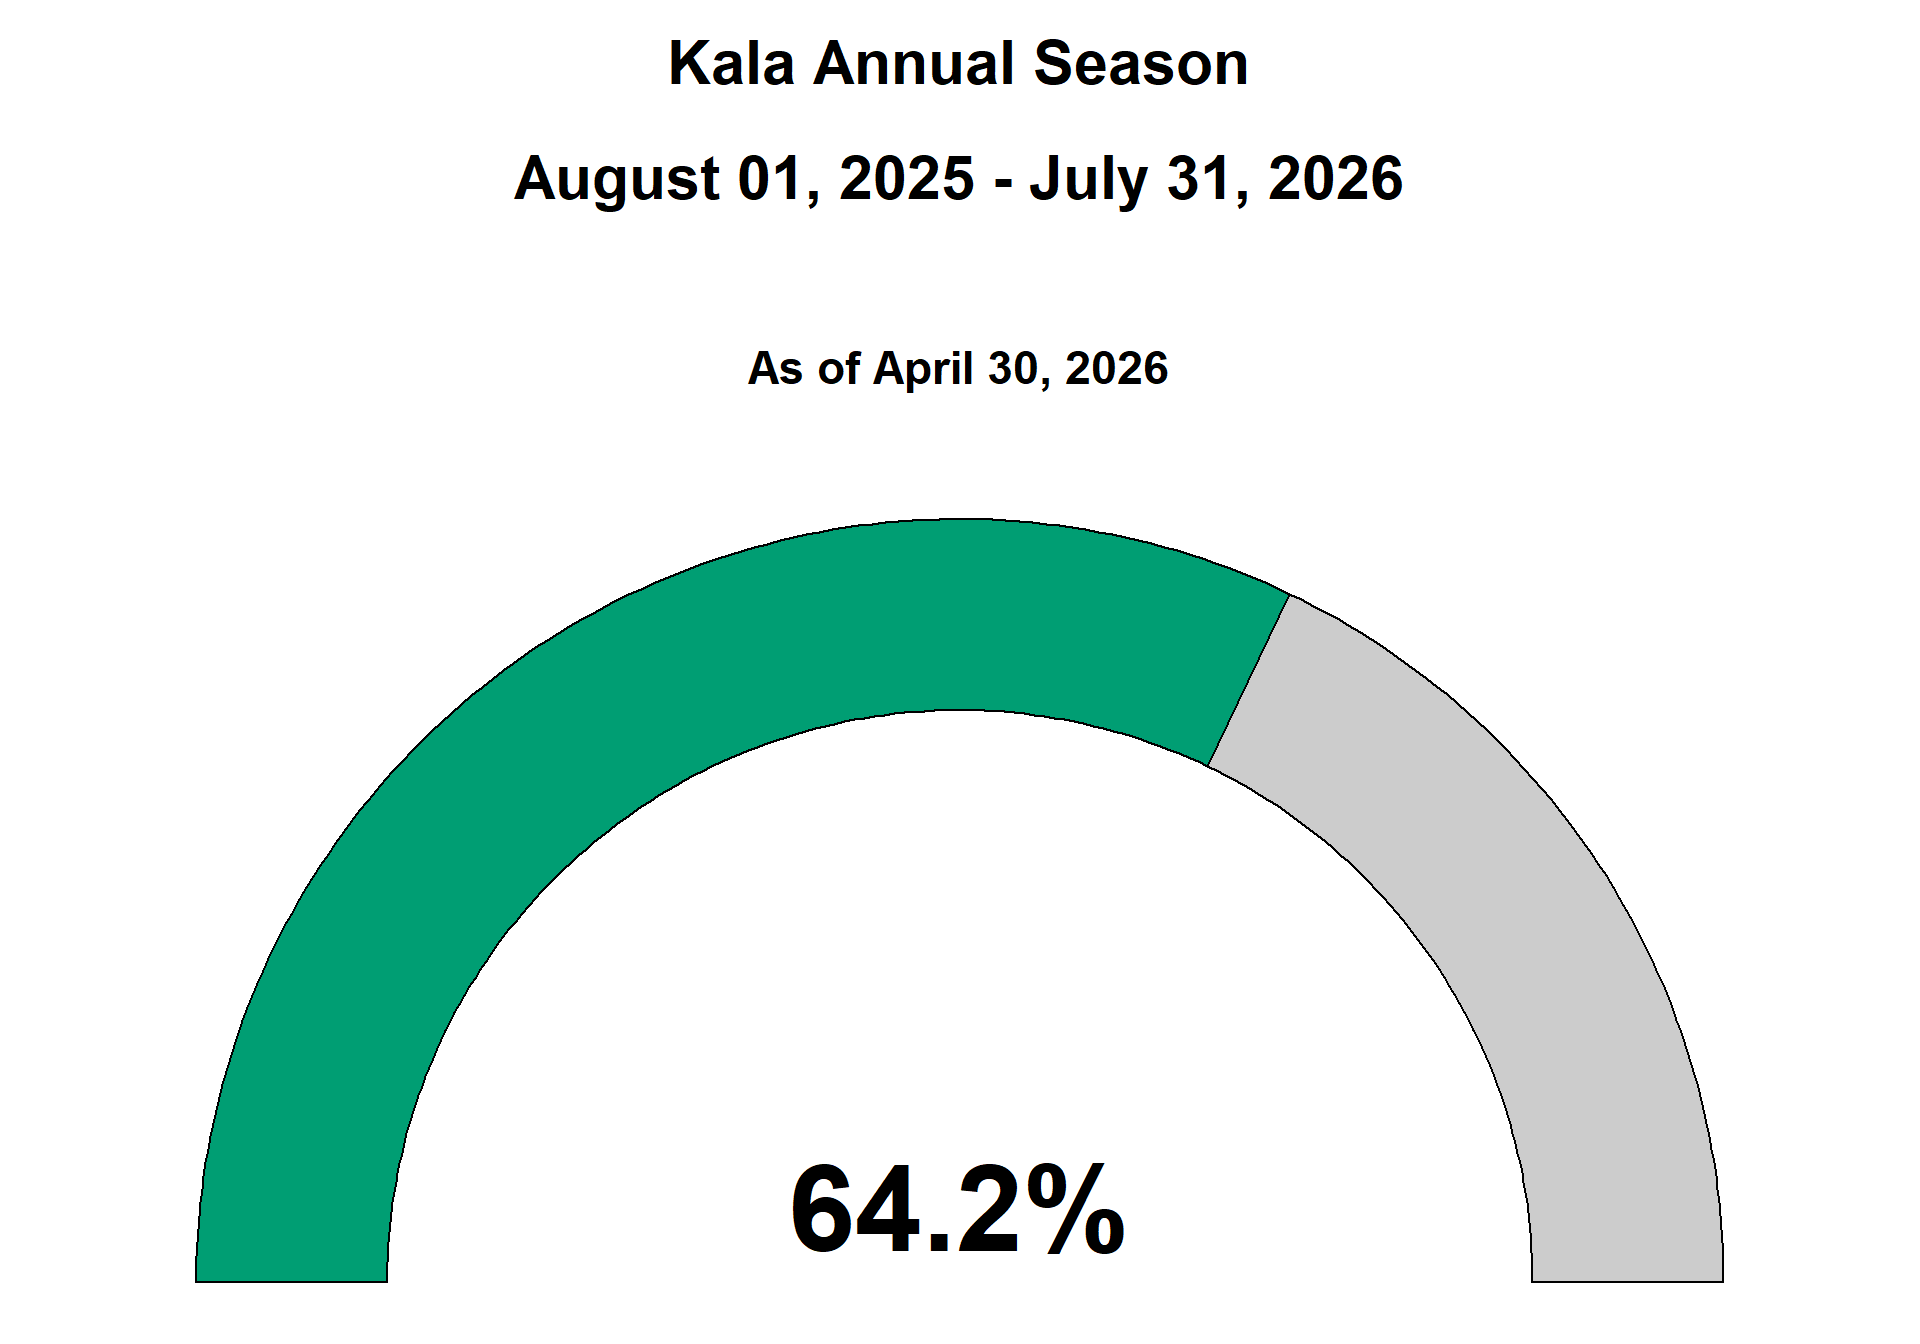
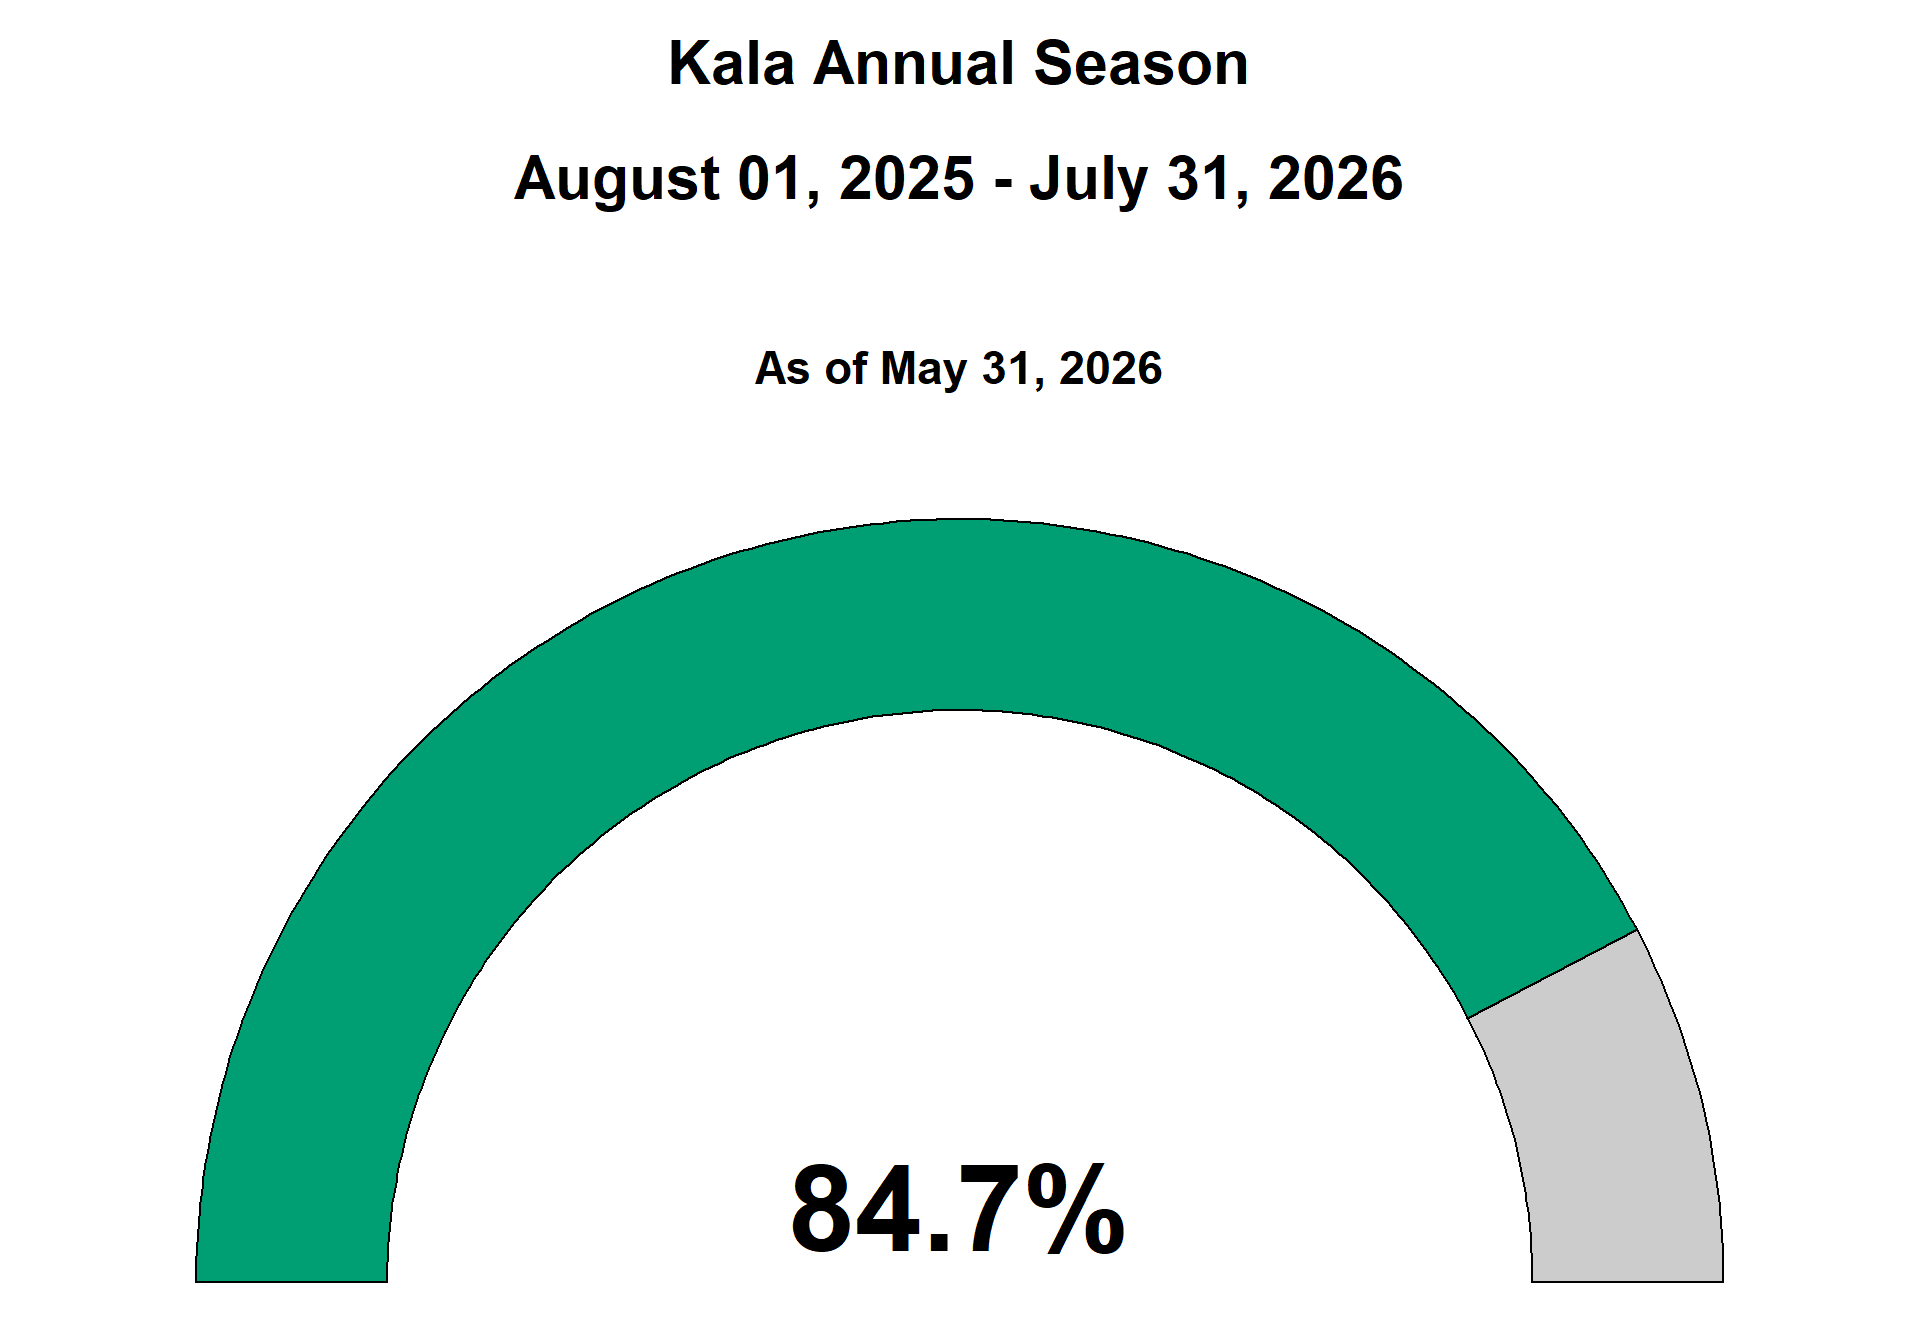
Updating dashboard for May 2026

diff --git a/Uku_KonaCrab_dashboard.html b/Uku_KonaCrab_dashboard.html
@@ -640,7 +640,7 @@ grid-auto-rows: minmax(0, 1fr);">
     <div class="nav-footer-left">
       <ul class="footer-items list-unstyled">
     <li class="nav-item">
- Uploaded on June 09, 2026
+ Uploaded on July 10, 2026
   </li>  
 </ul>
     </div>   

diff --git a/deep_seven_dashboard.html b/deep_seven_dashboard.html
@@ -655,7 +655,7 @@ grid-auto-rows: minmax(0, 1fr);">
     <div class="nav-footer-left">
       <ul class="footer-items list-unstyled">
     <li class="nav-item">
- Uploaded on June 09, 2026
+ Uploaded on July 10, 2026
   </li>  
 </ul>
     </div>   

diff --git a/index.html b/index.html
@@ -652,7 +652,7 @@ grid-auto-rows: minmax(0, 1fr);">
     <div class="nav-footer-left">
       <ul class="footer-items list-unstyled">
     <li class="nav-item">
- Uploaded on June 09, 2026
+ Uploaded on July 10, 2026
   </li>  
 </ul>
     </div>   

diff --git a/kala_uhu_dashboard.html b/kala_uhu_dashboard.html
@@ -640,7 +640,7 @@ grid-auto-rows: minmax(0, 1fr);">
     <div class="nav-footer-left">
       <ul class="footer-items list-unstyled">
     <li class="nav-item">
- Uploaded on June 09, 2026
+ Uploaded on July 10, 2026
   </li>  
 </ul>
     </div>   
